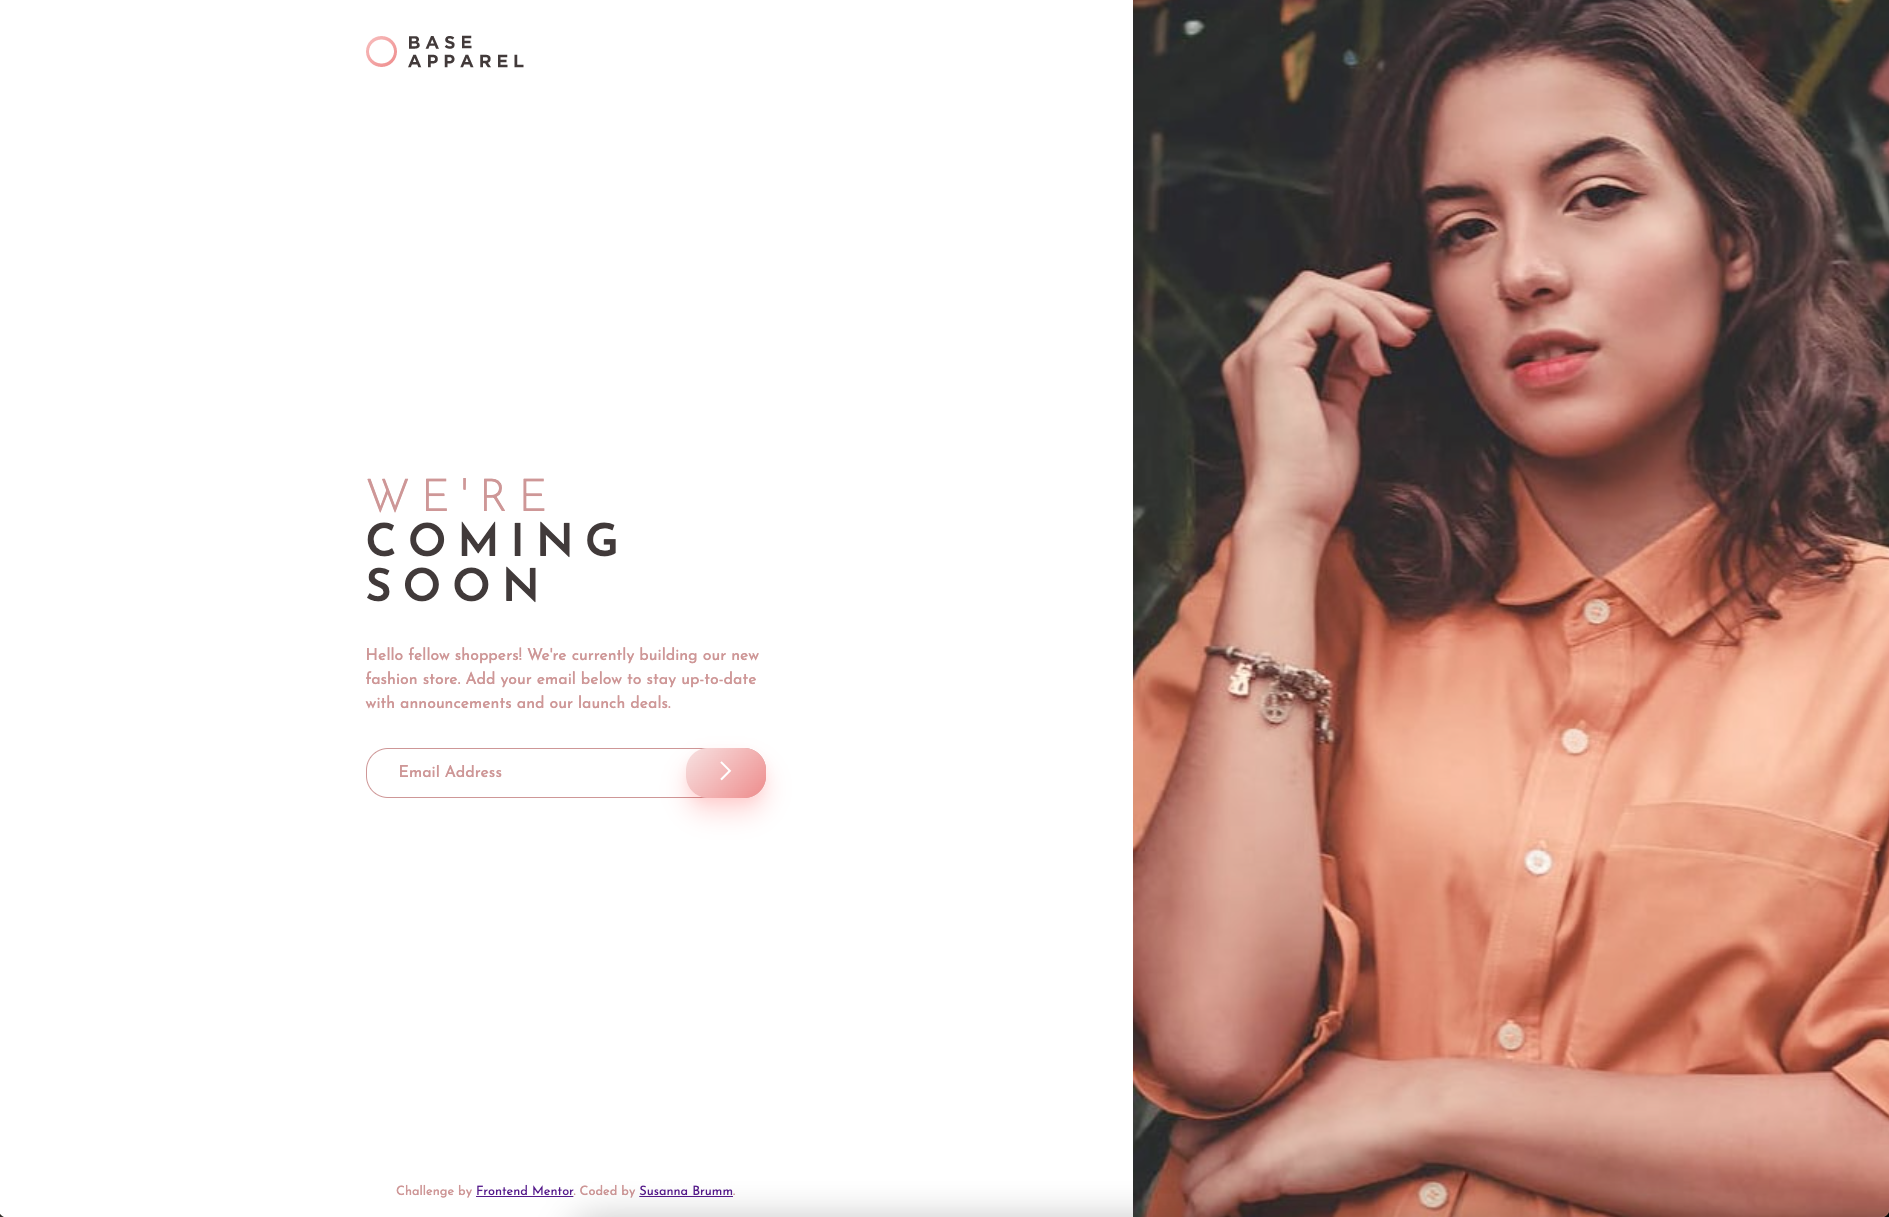
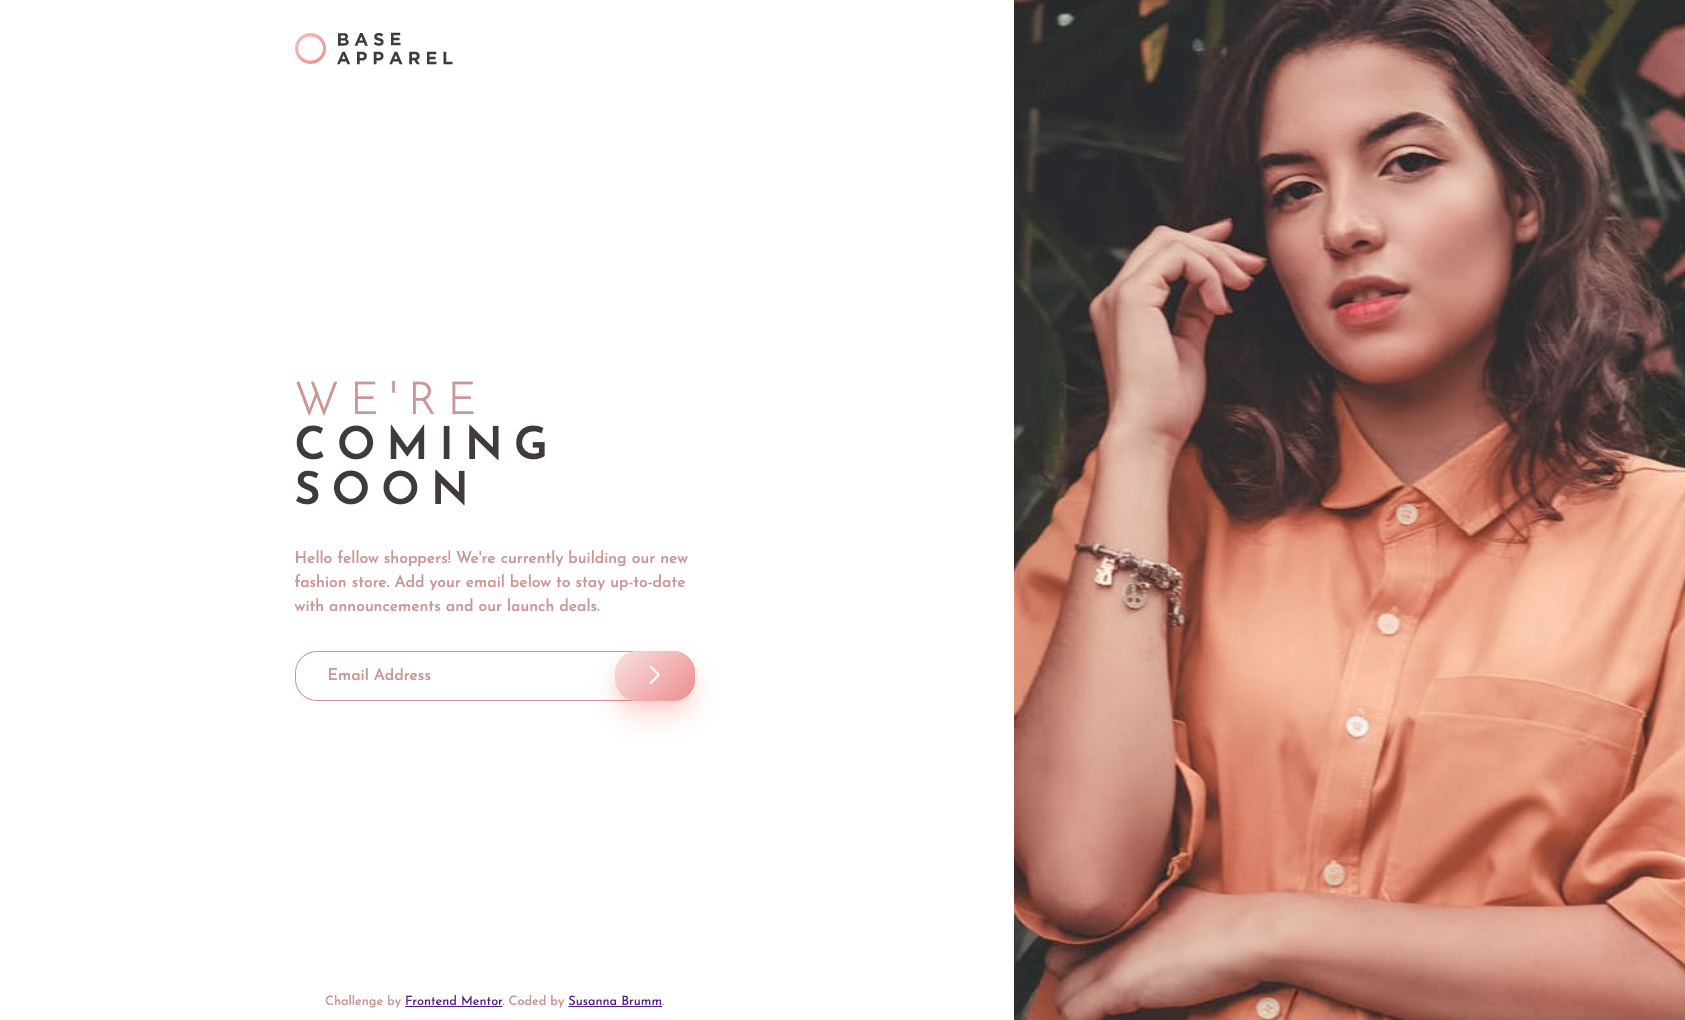
Added result images

diff --git a/README.md b/README.md
@@ -6,8 +6,11 @@ This is a solution to the [Base Apparel coming soon page challenge on Frontend M
 
 I hosted my solution on Github Pages [here](https://susi189.github.io/fm-coming-soon-page/).
 
-![Desktop version](./images/result/desktop.png)
-![Mobile version](./images/result/mobile.png)
+<img
+  src="/images/result/desktop.png"
+  alt="Alt text"
+  title="Desktop version"
+  style="display: inline-block; margin: 0 auto; width: 700px">
 
 ## Table of contents
 
